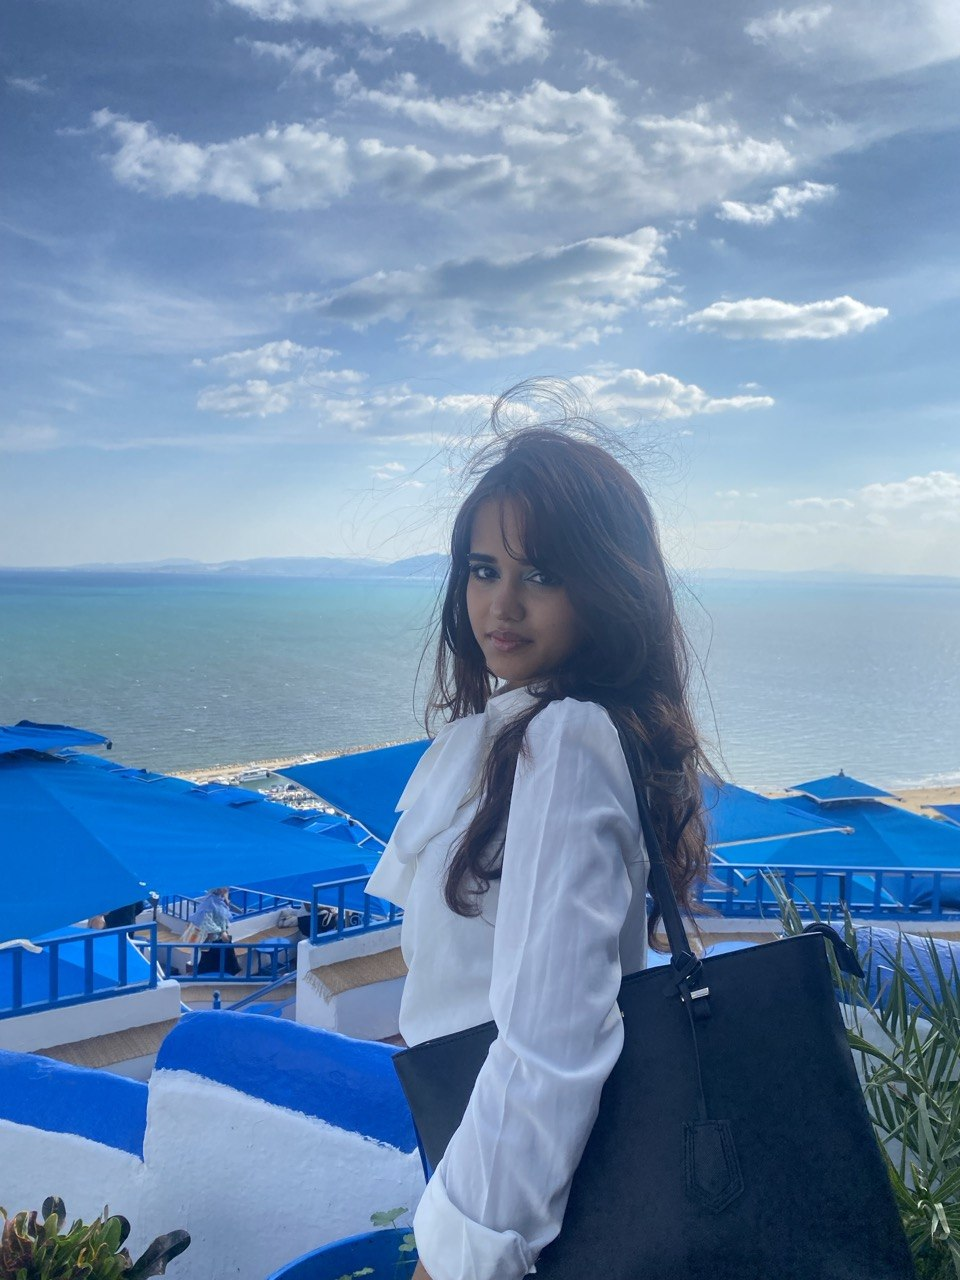
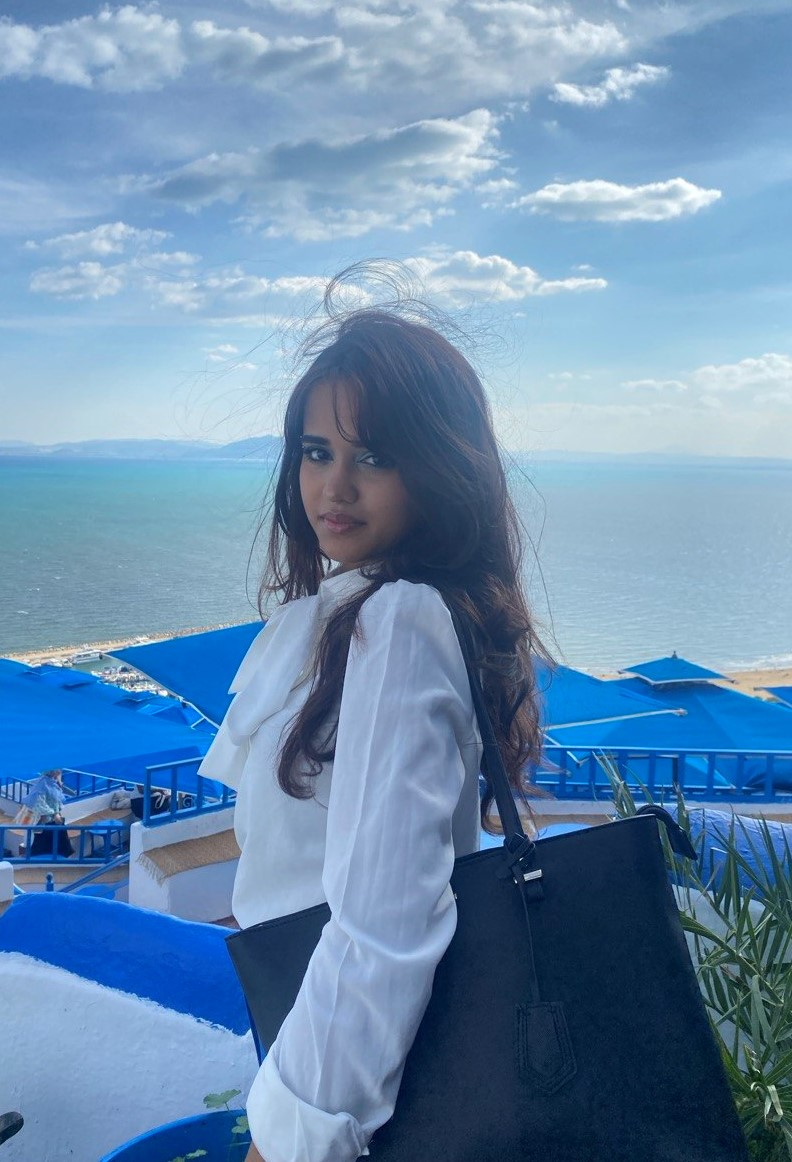
Add files via upload

diff --git a/app.js b/app.js
@@ -146,7 +146,7 @@ document.head.insertAdjacentHTML("beforeend", `<style>
   .about-hi { margin: 0; font: 500 1.25rem/1.25 "Fredoka", Quicksand, Verdana, sans-serif; color: var(--ink); }
   .about-name { font-weight: 700; font-size: 2.1rem; }
   .about-nick { display: block; margin: .15rem 0 1.1rem; font: 700 clamp(2.6rem, 7vw, 3.6rem)/.95 "Fredoka", Quicksand, Verdana, sans-serif; color: var(--head); }
-  .about-text p:not(.about-hi) { margin: 0 0 1rem; }
+  .about-text p:not(.about-hi) { margin: 0 0 .7rem; }
   @media (max-width: 720px) { .about-card { grid-template-columns: 1fr; } .about-pic { max-height: 24rem; } }
 </style>`);
 
@@ -181,7 +181,7 @@ function aboutCard() {
     ? `<p class="about-hi">You can call me <strong class="about-nick">${SITE.aboutNickname}</strong></p>` : "";
   return `
     <div class="about-card">
-      <div class="about-pic"><span>my picture</span>${img(SITE.aboutPicture, SITE.aboutName)}</div>
+      <div class="about-pic"><span>my picture</span></div>
       <div class="about-text">
         <p class="about-hi">Hi, I'm <strong class="about-name">${SITE.aboutName}</strong></p>
         ${nick}
@@ -190,9 +190,28 @@ function aboutCard() {
     </div>`;
 }
 
+// Finds your photo. It tries the address in posts.js first, then my-picture.jpg / .jpeg / .png / .webp
+// in the images folder and next to index.html, and adds the first one that exists.
+function loadAboutPicture() {
+  const holder = document.querySelector(".about-pic");
+  if (!holder) return;
+  const urls = SITE.aboutPicture ? [SITE.aboutPicture] : [];
+  for (const dir of ["images/", ""]) {
+    for (const ext of ["jpg", "jpeg", "png", "webp", "JPG", "JPEG", "PNG"]) urls.push(`${dir}my-picture.${ext}`);
+  }
+  const list = [...new Set(urls)];
+  const tryNext = i => {
+    if (i >= list.length) return;   // none found: the "my picture" box stays
+    const im = new Image();
+    im.onload = () => { im.alt = SITE.aboutName || ""; holder.appendChild(im); };
+    im.onerror = () => tryNext(i + 1);
+    im.src = list[i];
+  };
+  tryNext(0);
+}
+
 function homePage() {
   return (
-    section("Greetings", `<div class="greet"><p>${SITE.intro}</p>${img(SITE.welcomeImage)}</div>`) +
     section("Introduction", aboutCard()) +
     section("Latest post", byDate.length ? card(byDate[0]) : `<p class="pad">No posts yet.</p>`)
   );
@@ -223,6 +242,7 @@ function showSection() {
   document.title = id === "home" ? SITE.name : `${label} - ${SITE.name}`;
   main.innerHTML = id === "home" ? homePage() : id === "updates" ? updatesPage() : listPage(id);
   setActive(id);
+  if (id === "home") loadAboutPicture();
 }
 
 const slug = new URLSearchParams(location.search).get("slug");

diff --git a/posts.js b/posts.js
@@ -3,19 +3,13 @@
 const SITE = {
   name: "Khadija's Take",
   tagline: "",   // the text under the banner (left empty on purpose)
-  welcomeImage: "",
-  intro: "Welcome to my corner of the internet; no neutral stances here.",
   // Introduction card on the Home page (your picture, your names and your text).
   aboutName: "Khadija",
   aboutNickname: "Douja",   // leave "" to hide the "You can call me" line
   aboutPicture: "images/my-picture.jpg",   // your picture; until it exists, a "my picture" box shows
-  // Your introduction. Each new line becomes its own paragraph, so keep a blank line between them.
-  about: `hello!!
-
-i'm khadija, a 21 year old student-artist at ISG-T, passionate about everything artistic, creative and social.
-
+  // Your introduction. Each new line becomes its own paragraph.
+  about: `hello!! i'm khadija, a 21 year old student-artist at ISG-T, passionate about everything artistic, creative and social.
 i focus on giving my personal takes and views and political and social matters espacially in tunisia. i love sharing my takes and learning more about diffrent opinions.
-
 if you're intrested in art or social issues make sure to follow my blog to hear my takes and share yours.`,
   adminEmail: "kadija0boughanmi@gmail.com",   // the Google account that can delete any comment
   firebase: {   // paste your Firebase values here to turn on comments
